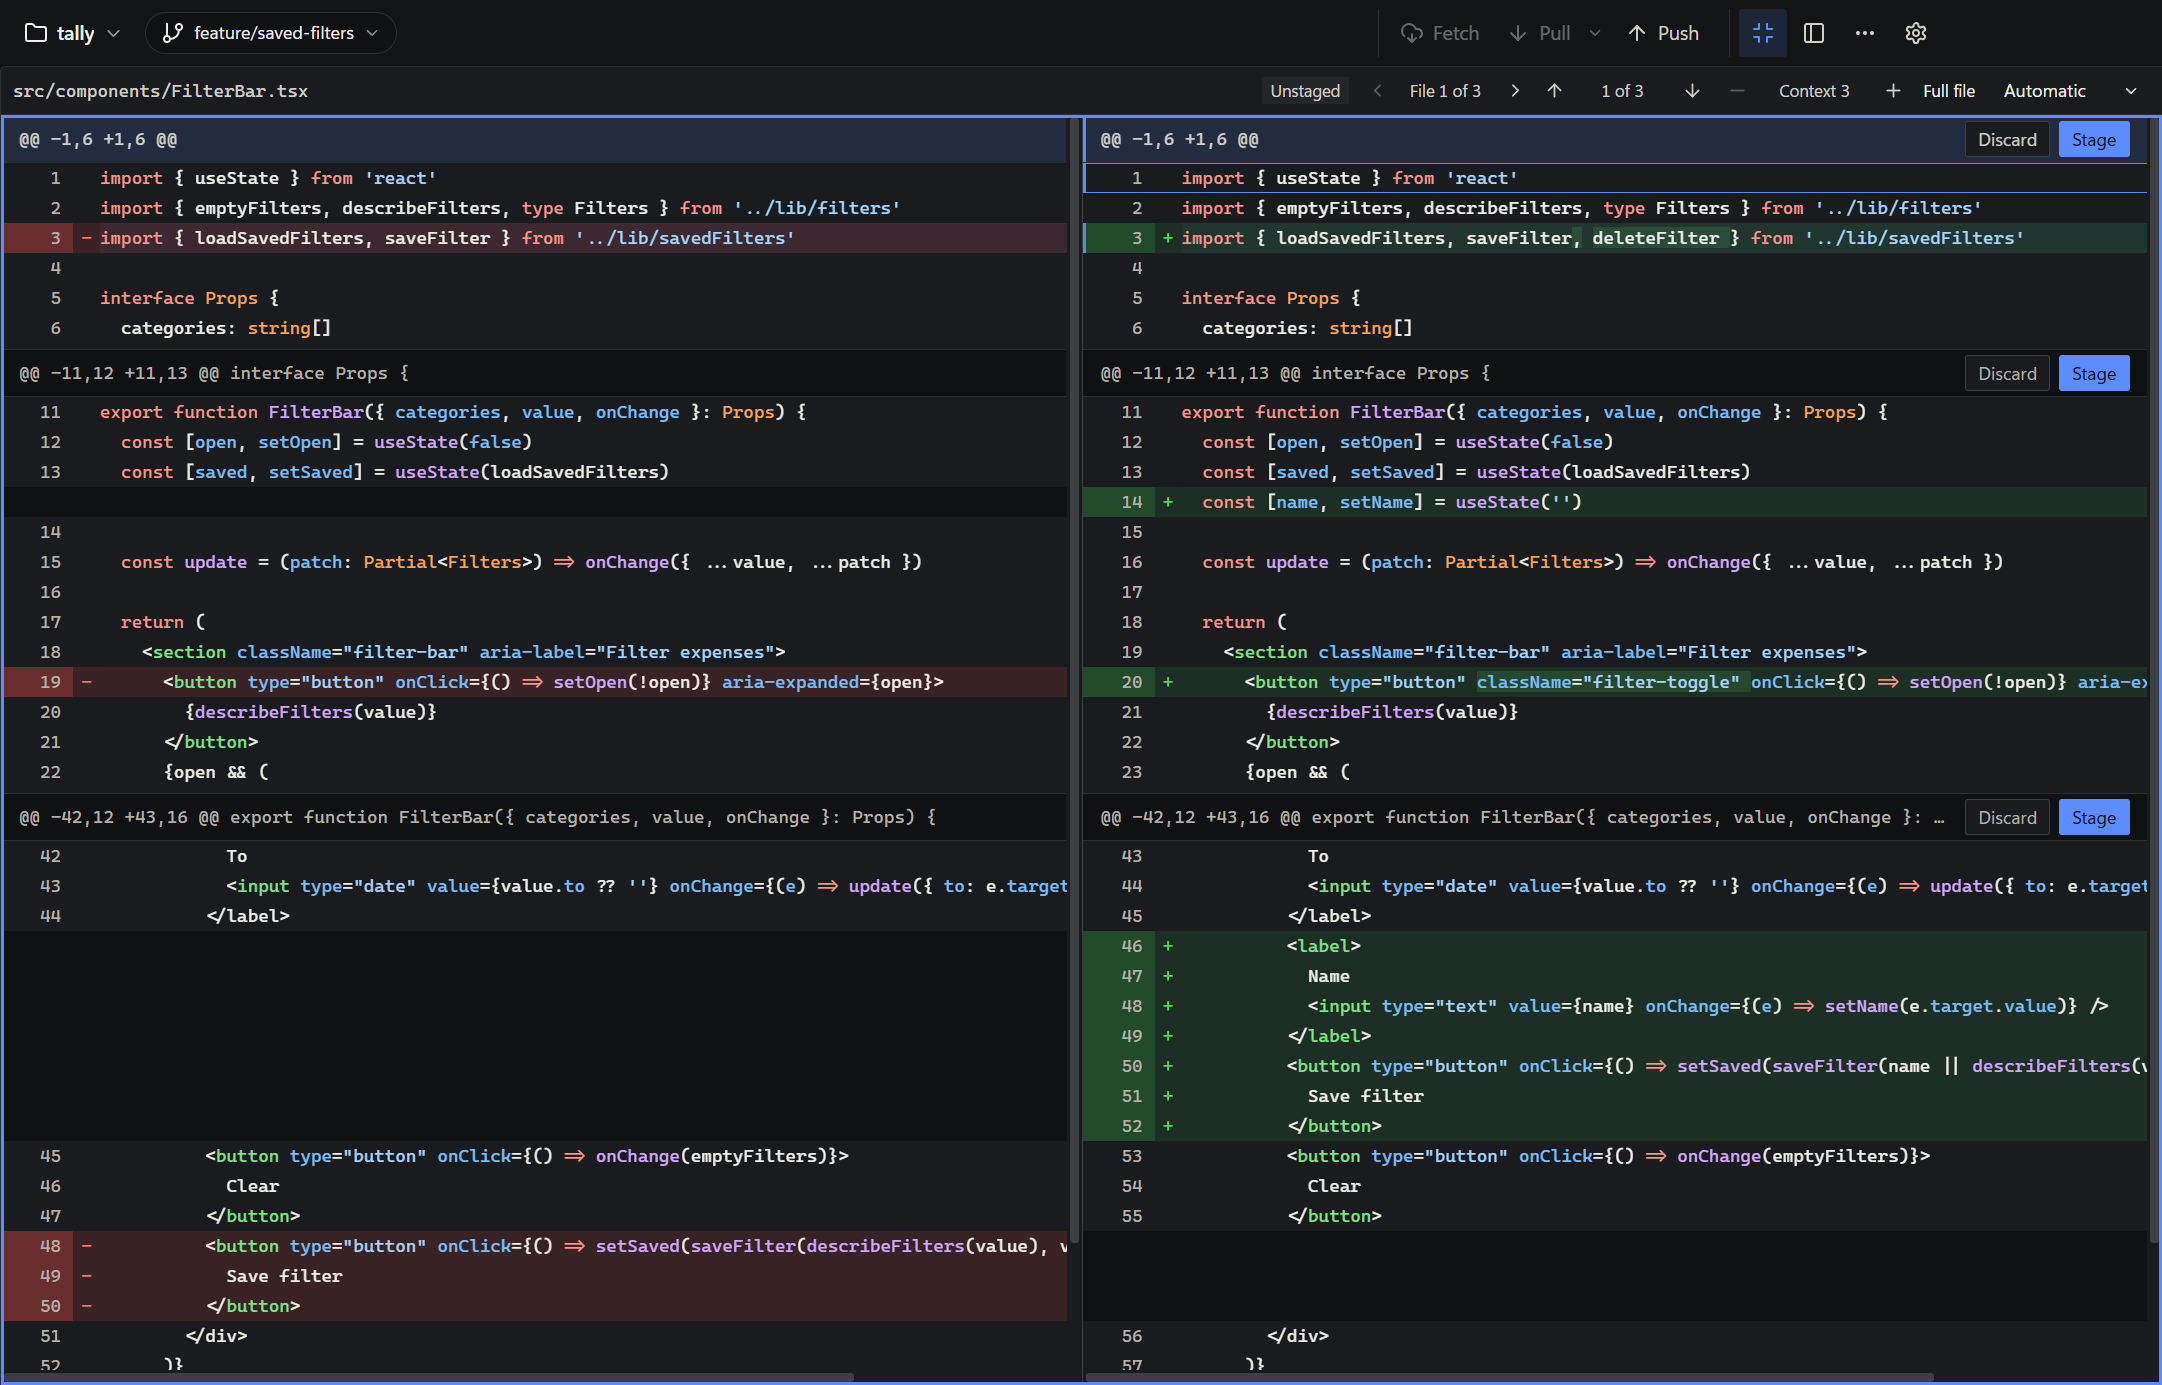
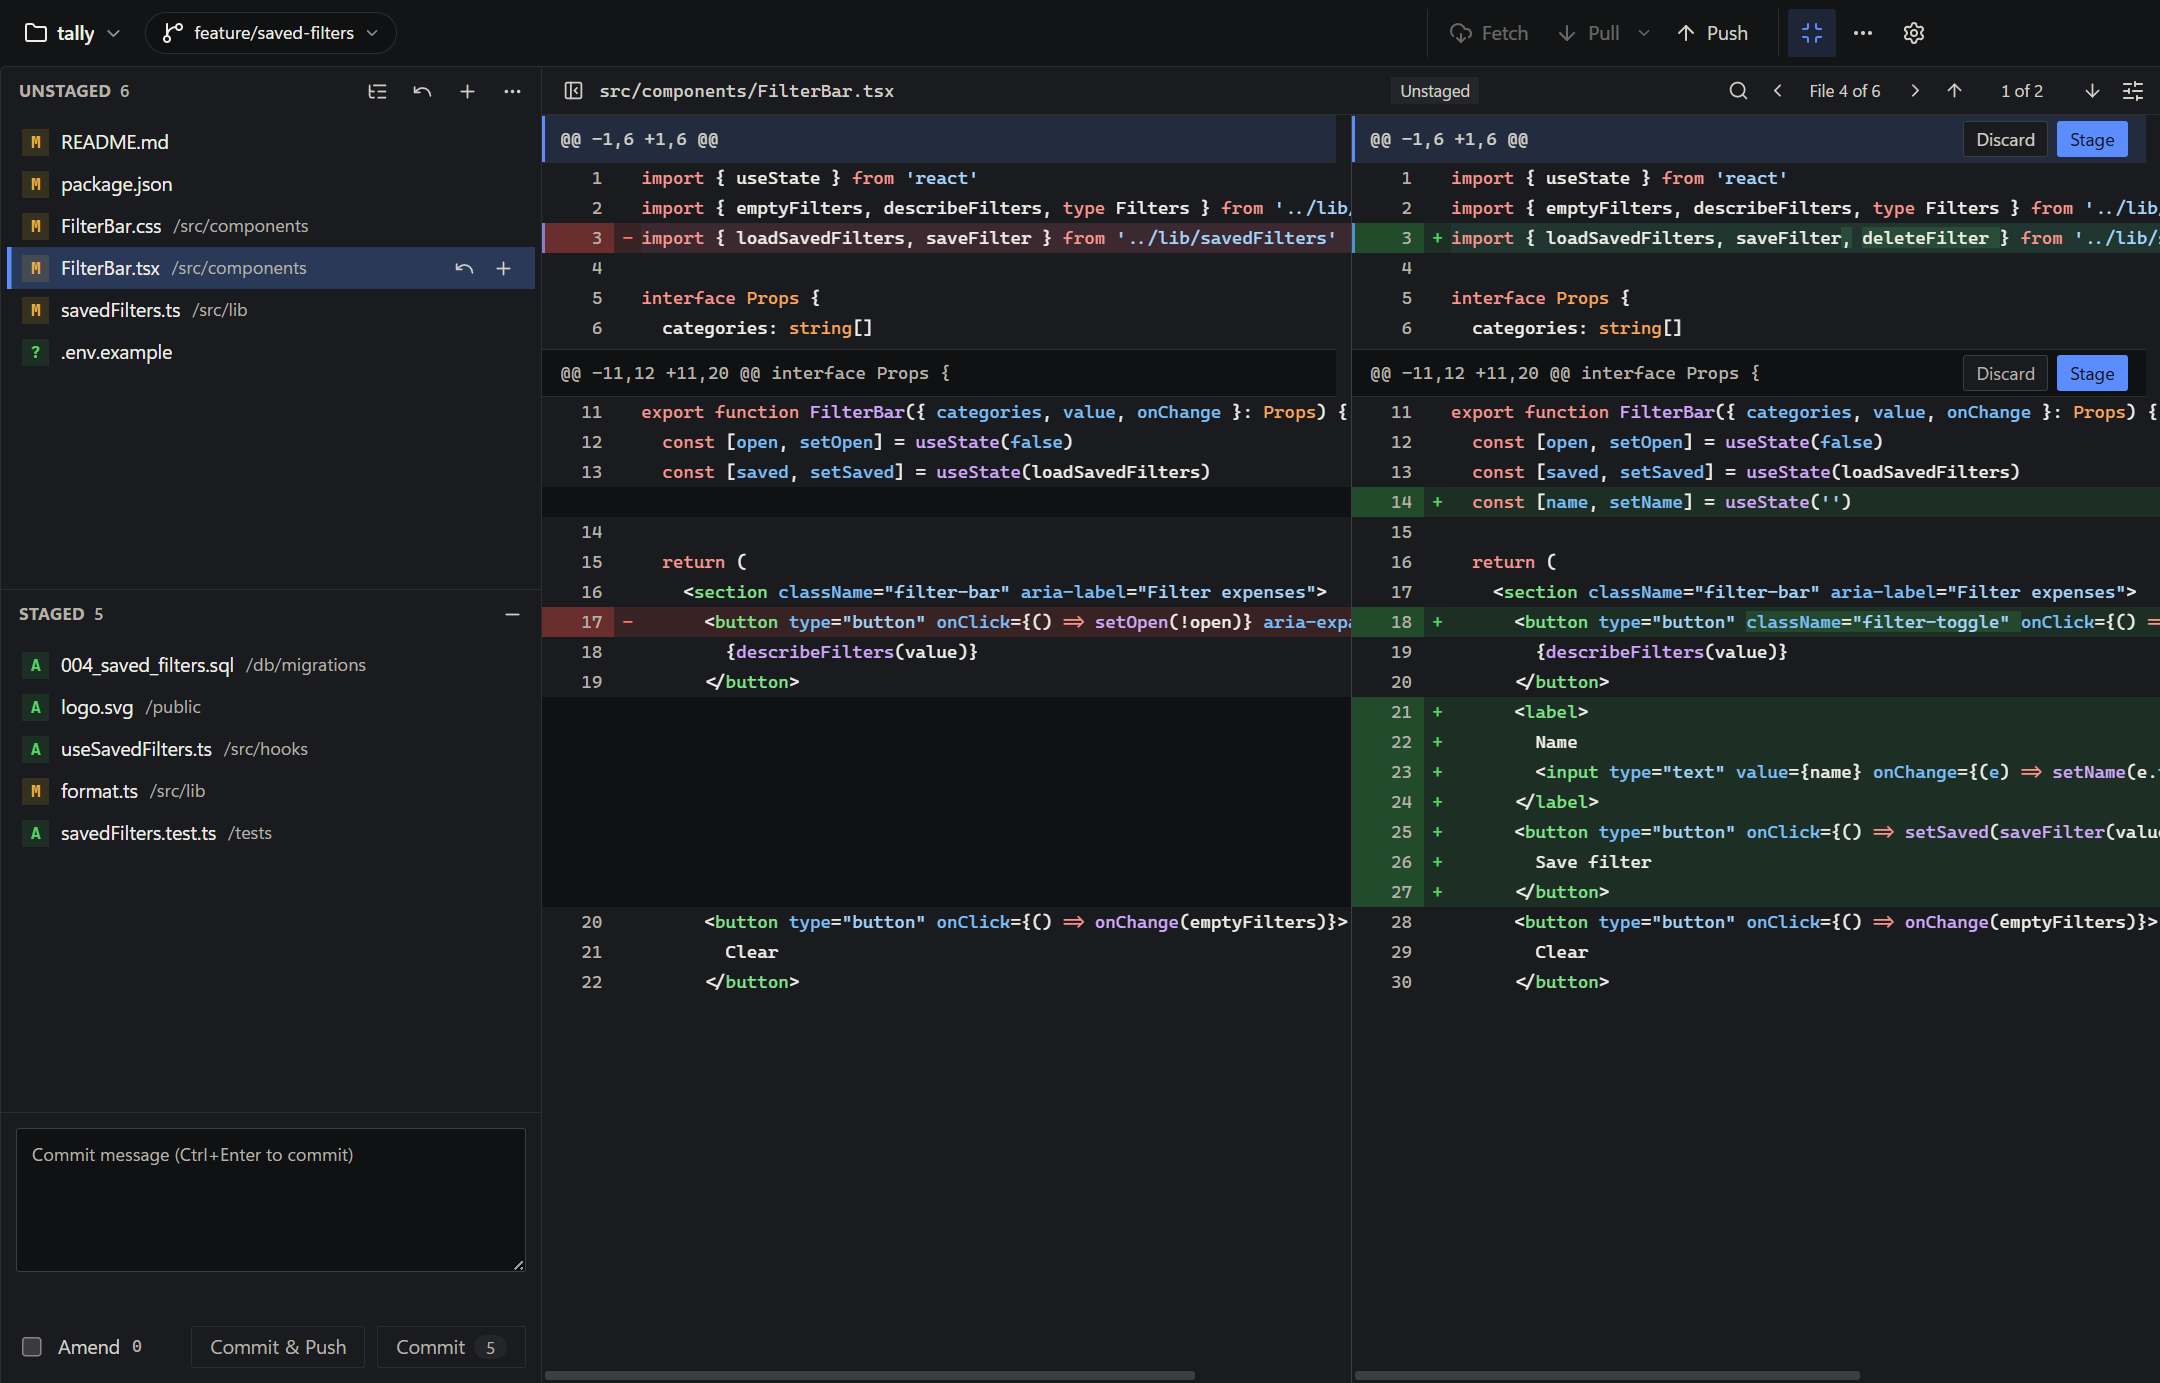
Recapture the focus screenshots for the file list beside the diff

diff --git a/website/src/data/lines.ts b/website/src/data/lines.ts
@@ -175,7 +175,7 @@ export const lines: Line[] = [
           { label: 'Collapse the sidebar to icons', keys: ['Ctrl', '['] },
           { label: 'Previous or next file', keys: ['Alt', 'PageUp / PageDown'] },
         ],
-        shots: [{ image: 'oak-focus', title: 'Oak with the code area expanded to fill the window', caption: 'After pressing F11, the diff fills the window.' }],
+        shots: [{ image: 'oak-focus', title: 'Oak in focus mode with the file lists beside a side by side diff', caption: 'After pressing F11, the diff fills the window and the file lists stay beside it.' }],
       },
       {
         id: 'resize',
